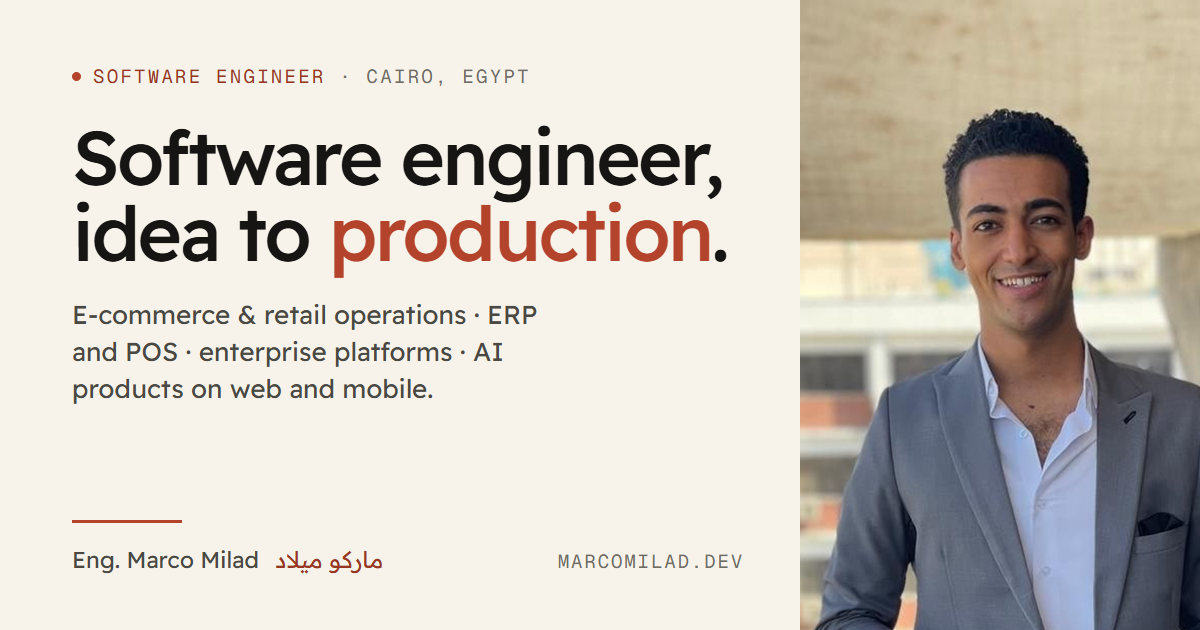
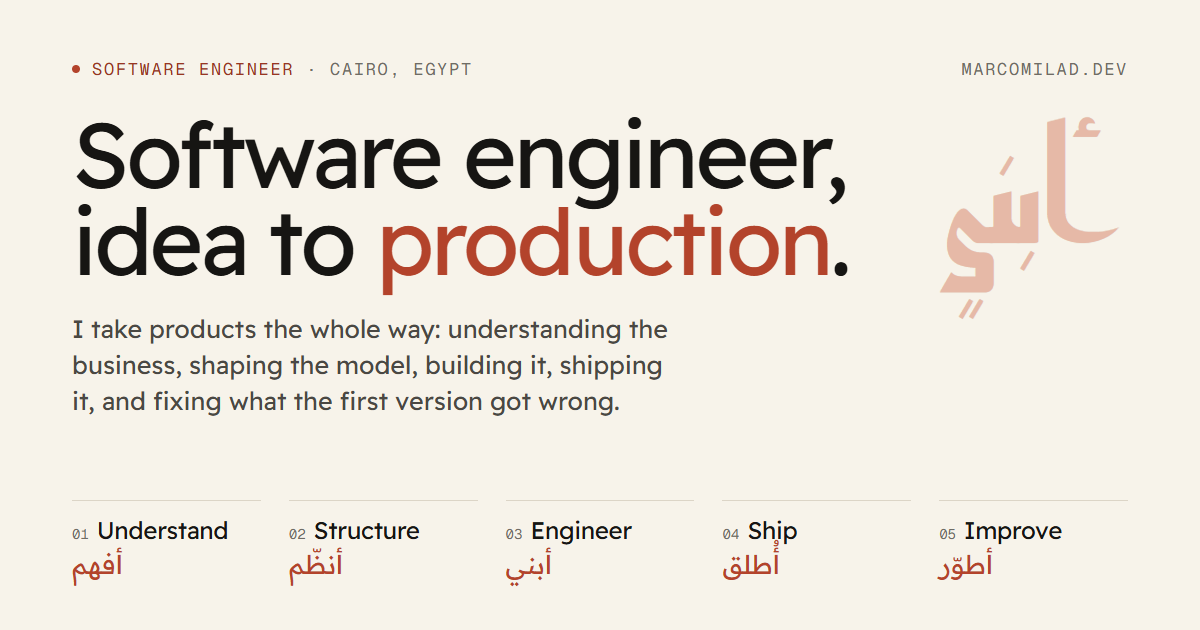
feat: share card is the hero, and link previews can actually load it
Share card. Marco asked for the link preview to show the hero section, the
way aabdoo23.dev's does. The card is now a rendering of the hero itself: the
same eyebrow, headline, Qahiri watermark, lead and verb chain, in the same
tokens and faces. The previous card was its own composition with a photo;
a preview that looks like the page it opens is the better promise. 334 KB ->
83 KB, since it is now type on paper rather than a photograph.

The verb chain's Arabic is set in Readex Pro, not Qahiri. That matches what
the live page renders: in the stylesheet .ar is declared after .ar-kufi at
the same specificity, so on the site the chain has been Readex all along.
Qahiri at that size also shapes badly — the first render of this card was
visibly broken — so the card shows what the page shows.

Previews. The bigger problem was not the card. metadataBase was hardcoded to
https://marcomilad.dev, which does not resolve yet, so every og:image and
twitter:image URL pointed at a host that answers nothing. Whatever the card
looked like, no preview could fetch it.

metadataBase now follows VERCEL_PROJECT_PRODUCTION_URL when it is set: the
project's vercel.app address today, and marcomilad.dev on its own once that
domain is attached to the project. Off Vercel the variable is absent and it
falls back to site.url exactly as before. og:url is relative for the same
reason — LinkedIn and Facebook follow it to scrape the preview.
[…]

diff --git a/src/app/layout.tsx b/src/app/layout.tsx
@@ -59,8 +59,25 @@ const qahiri = Qahiri({
   fallback: ["Segoe UI", "Tahoma", "sans-serif"],
 });
 
+/**
+ * Where this build is actually being served.
+ *
+ * The share card's URL is built from this, so it has to be a host that
+ * answers. Hardcoding marcomilad.dev meant every link preview asked a domain
+ * that does not resolve yet for its image, and got nothing back — the card
+ * existed and nobody could see it.
+ *
+ * On Vercel, VERCEL_PROJECT_PRODUCTION_URL is the project's production domain:
+ * the vercel.app address today, and marcomilad.dev by itself the moment that
+ * domain is attached — no change needed here when it goes live. Anywhere else
+ * the variable is absent and this falls back to site.url as before.
+ */
+const deployedUrl = process.env.VERCEL_PROJECT_PRODUCTION_URL
+  ? `https://${process.env.VERCEL_PROJECT_PRODUCTION_URL}`
+  : site.url;
+
 export const metadata: Metadata = {
-  metadataBase: new URL(site.url),
+  metadataBase: new URL(deployedUrl),
   title: {
     default: "Marco Milad — Software Engineer (React, Next.js, TypeScript)",
     template: "%s — Marco Milad",
@@ -76,7 +93,10 @@ export const metadata: Metadata = {
     type: "website",
     locale: "en",
     siteName: `${site.displayName} · ${site.nameAr.text}`,
-    url: site.url,
+    // Relative, so it resolves against metadataBase like the image does.
+    // LinkedIn and Facebook follow og:url to scrape the preview; an absolute
+    // URL on a domain that is not live yet sends them to nothing.
+    url: "/",
   },
   twitter: { card: "summary_large_image" },
   robots: {
